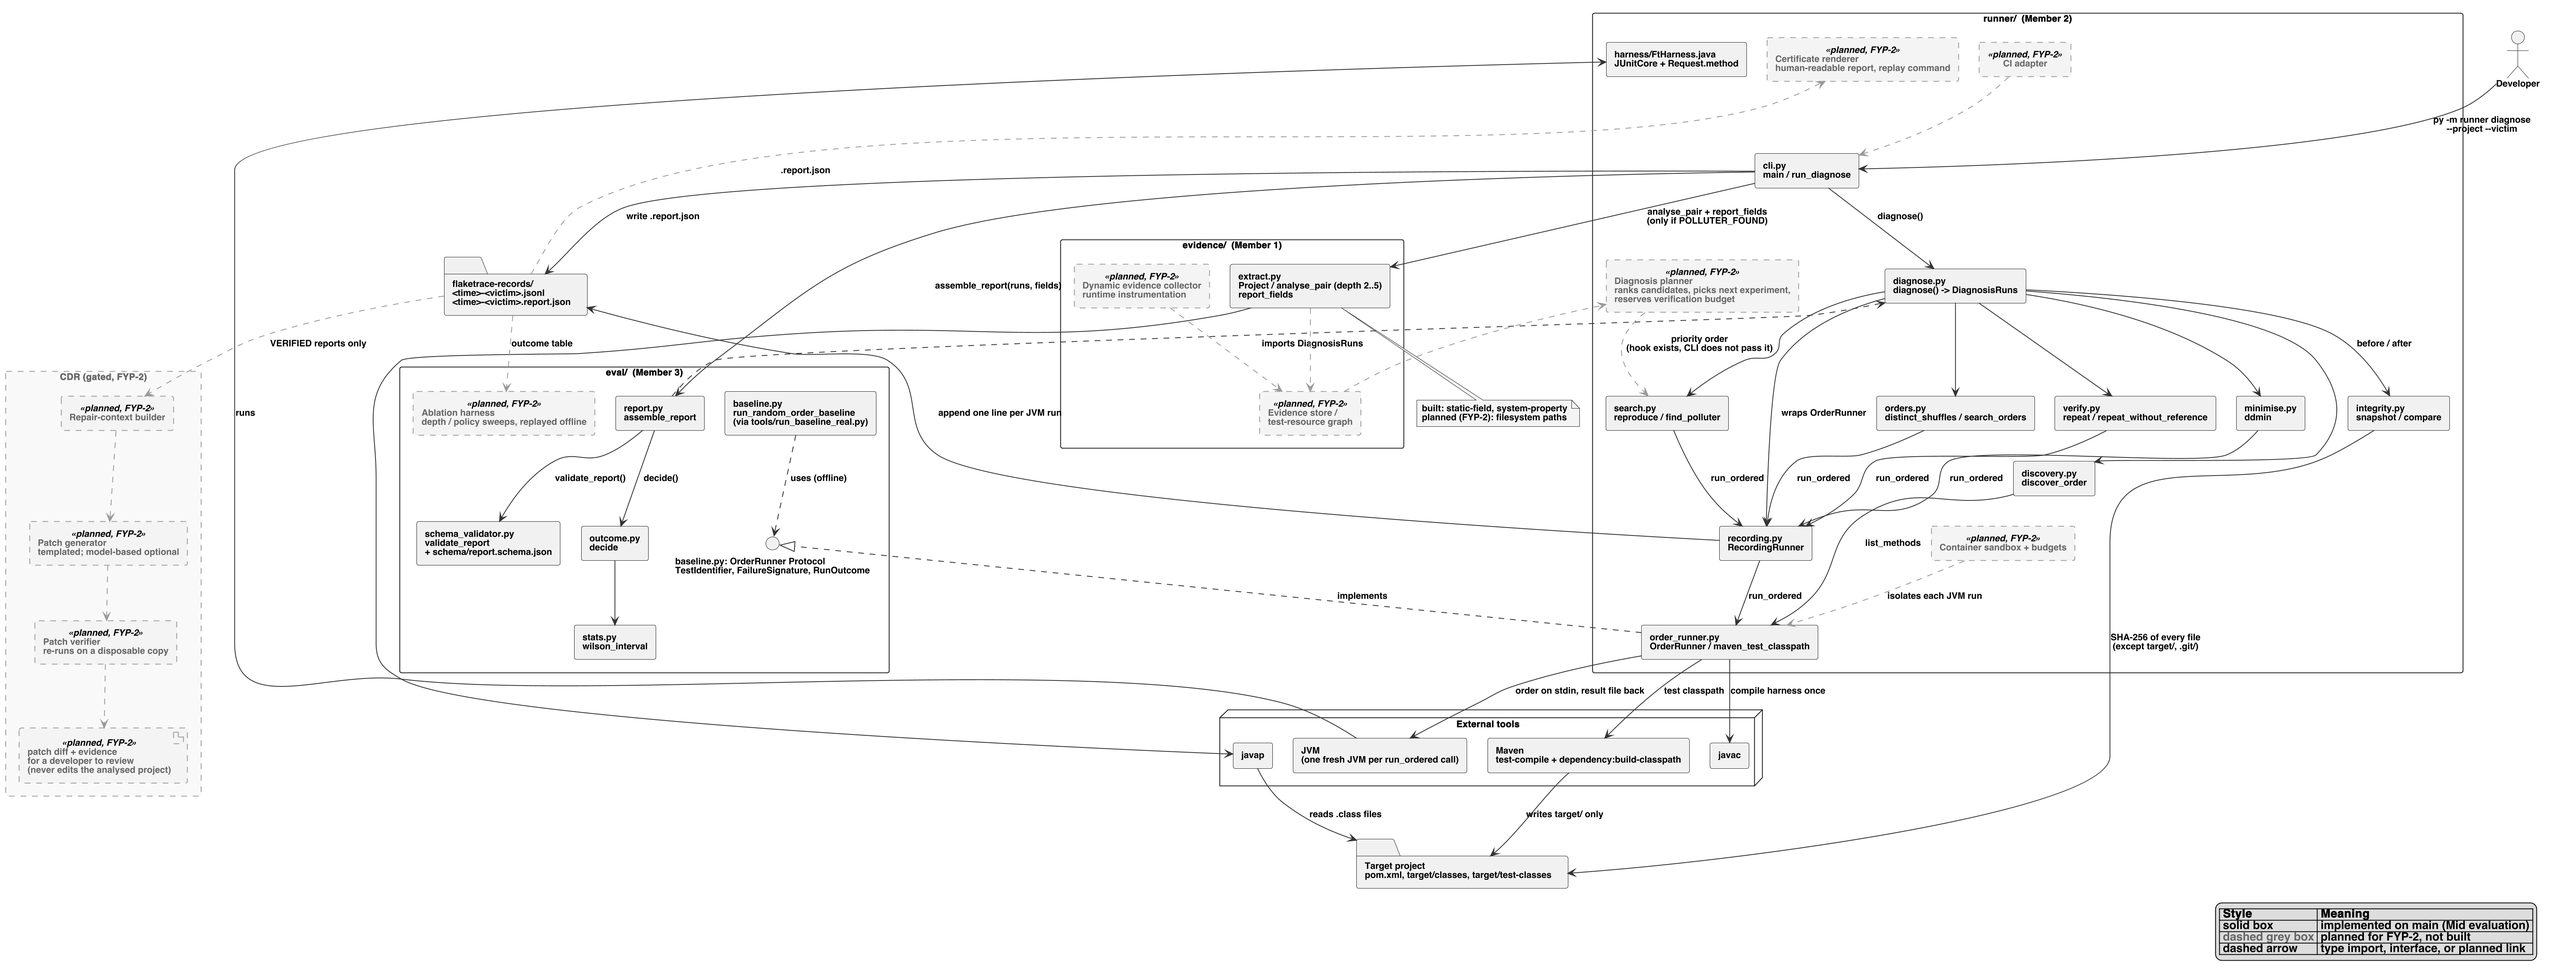
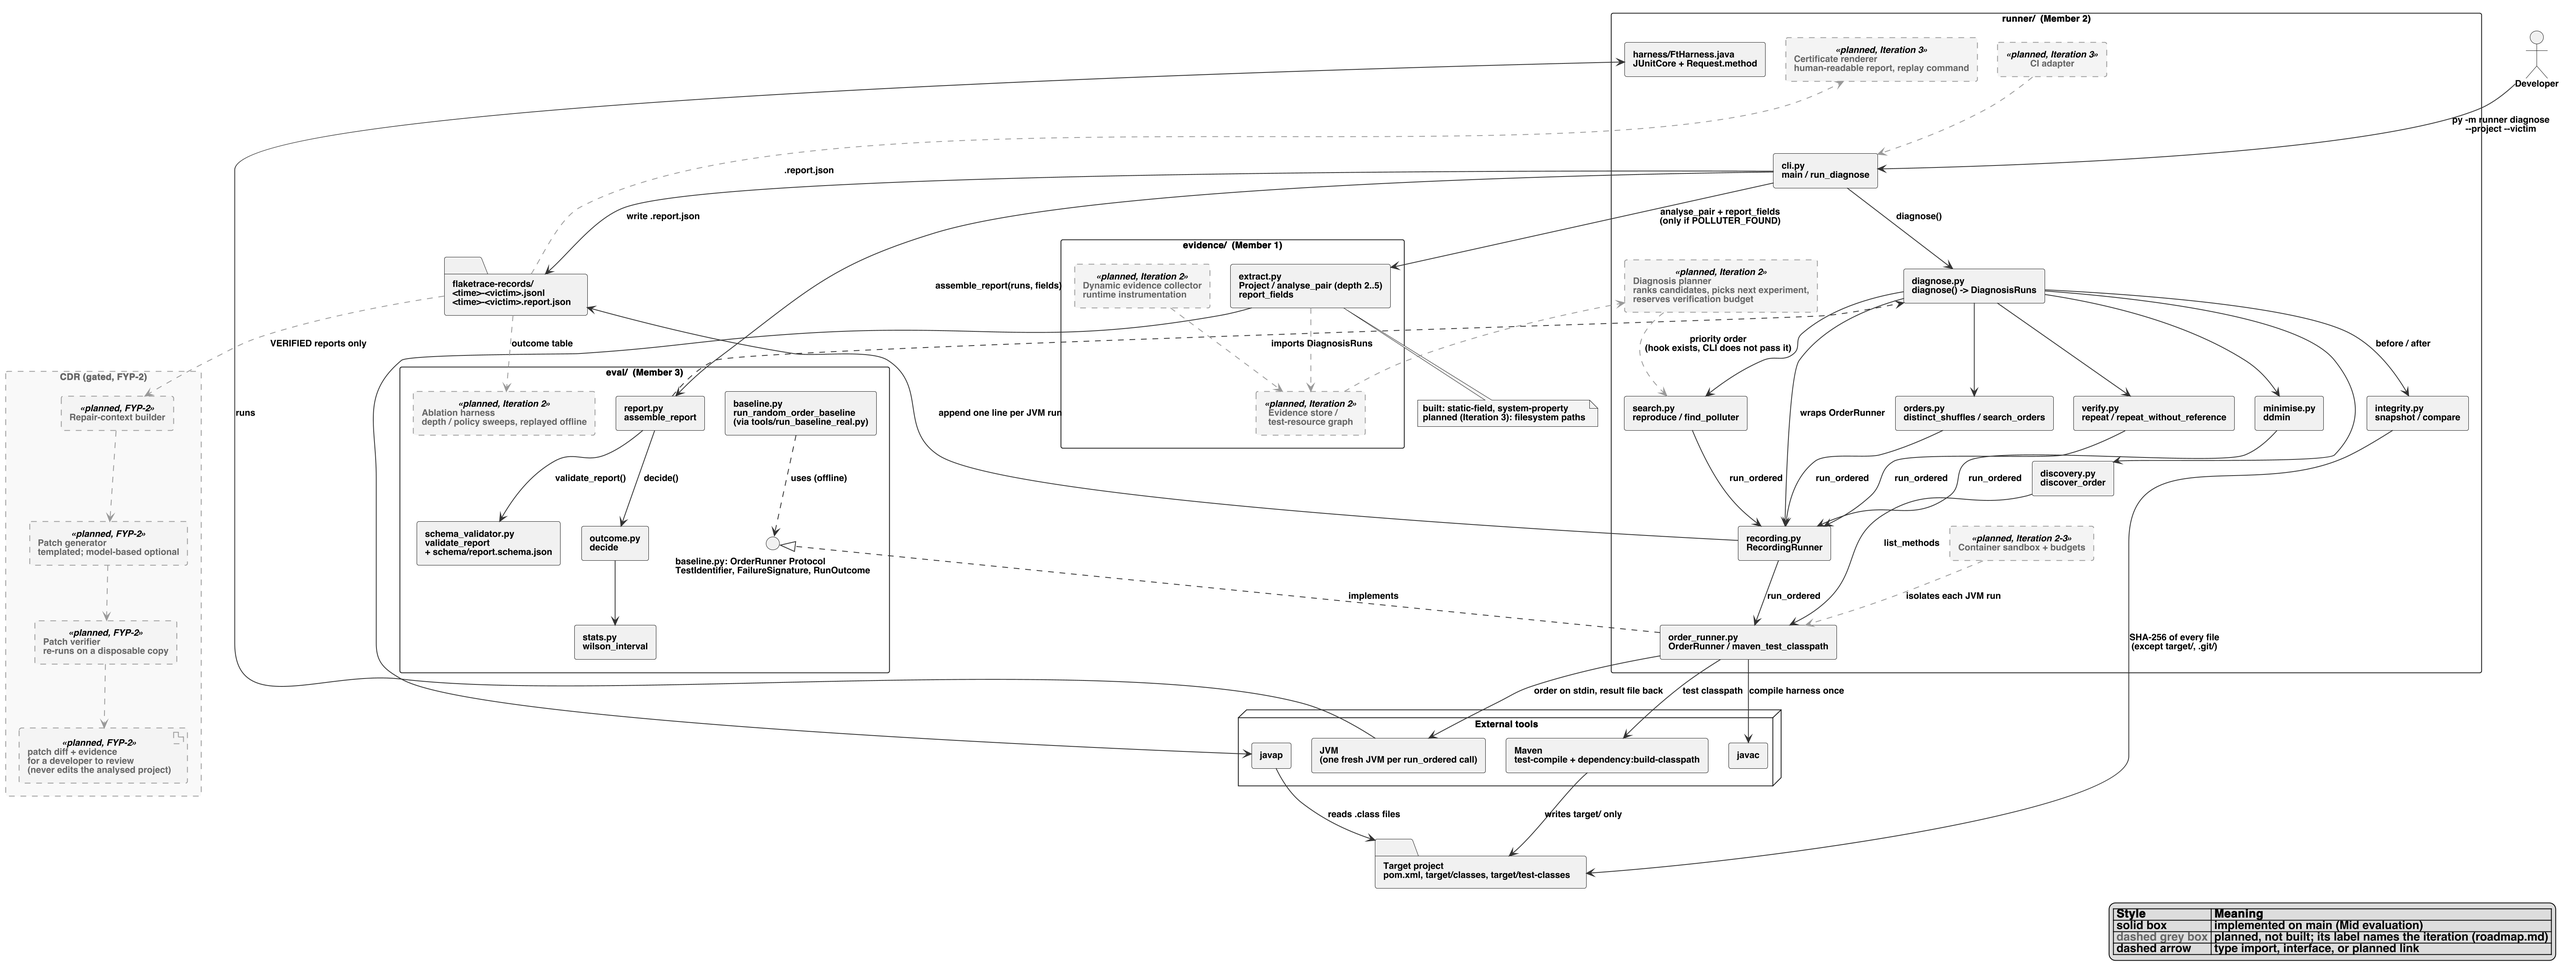
[M2] report: label planned architecture parts with their roadmap iteration
Chapter 5 said every planned component was FYP-2, but roadmap.md's iteration table puts the planner, the evidence graph, dynamic collection and the ablation harness in Iteration 2, before the FYP-1 Final, as Chapters 1 and 3 already say. Each dashed box now names its iteration; only the gated CDR module stays FYP-2. Raised by M3's cross-review.

Verified: PlantUML re-rendered and labels checked in the PNG; latexmk -pdf (MiKTeX) 177 pages, 0 errors; Figure 5.1 page inspected.

diff --git a/mid-eval-report/chapters/chapter5_design.tex b/mid-eval-report/chapters/chapter5_design.tex
@@ -7,7 +7,7 @@
 % ===========================================================================
 \chapter{System Design}
 \section{System Architecture}\label{ch5:sec:arch}
-FlakeTrace is three Python packages, one per member: \texttt{runner/} (Member 2), \texttt{evidence/} (Member 1) and \texttt{eval/} (Member 3). They meet only through the contracts in \texttt{docs/contracts/}: \texttt{interfaces.md} (who calls whom), \texttt{report-schema.md} (the report every part feeds) and \texttt{resource-evidence.md} (the evidence format). Figure~\ref{ch5:fig:arch} shows every module and call as it is on \texttt{main}; solid boxes are implemented, dashed grey boxes are planned for FYP-2.
+FlakeTrace is three Python packages, one per member: \texttt{runner/} (Member 2), \texttt{evidence/} (Member 1) and \texttt{eval/} (Member 3). They meet only through the contracts in \texttt{docs/contracts/}: \texttt{interfaces.md} (who calls whom), \texttt{report-schema.md} (the report every part feeds) and \texttt{resource-evidence.md} (the evidence format). Figure~\ref{ch5:fig:arch} shows every module and call as it is on \texttt{main}; solid boxes are implemented, dashed grey boxes are planned, each labelled with the iteration the roadmap gives it (\path{docs/00-Meta/roadmap.md}). Iteration 2 ends at the FYP-1 Final evaluation; only the gated CDR module is FYP-2 alone.
 
 One command, \texttt{py -m runner diagnose -{}-project DIR -{}-victim Class\#method}, starts a diagnosis. \texttt{runner/cli.py} is the only place that calls all three packages, in five layers:
 \begin{enumerate}
@@ -22,7 +22,7 @@ The analysed project is only read. Maven compiles it into its own \texttt{target
 
 \begin{figure}[p]\centering
   \includegraphics[width=0.92\textheight,angle=90]{figures/m2/architecture}
-  \caption{FlakeTrace architecture: implemented at Iteration 1 (solid) and planned for FYP-2 (dashed grey)}\label{ch5:fig:arch}
+  \caption{FlakeTrace architecture: implemented at Iteration 1 (solid) and planned for later iterations (dashed grey)}\label{ch5:fig:arch}
 \end{figure}
 \section{Architectural Components}\label{ch5:sec:components}
 Table~\ref{ch5:tab:components} maps each component of the proposal's architecture (\path{docs/03-Design/architecture.md}) to the code that implements it at Iteration 1. ``Partial'' means part of the component's responsibility exists and the rest is named.
@@ -42,13 +42,13 @@ Project adapter & \texttt{runner/discovery.py}, \texttt{order\_runner.py} (\text
 Sandbox runner & \texttt{runner/order\_runner.py}, \texttt{harness/FtHarness.java} & M2 & Partial: one fresh JVM per order, 120\,s timeout; no container, no budget beyond the timeout\\
 Outcome normaliser & \texttt{eval/baseline.py} (\texttt{FailureSignature}), \texttt{runner/order\_runner.py} & M3, M2 & Built: exception type plus stack trace cut at the first JUnit/reflection frame; message masked\\
 Evidence collector & \texttt{evidence/extract.py} & M1 & Partial: static-only (\texttt{javap}), static fields and system properties, depth 2 deepening to 5; no filesystem paths, no runtime collection\\
-Evidence store / graph & --- & M1 & Planned (FYP-2); pair mode per found polluter instead\\
-Diagnosis planner & \texttt{runner/search.py} (\texttt{priority} argument only) & M2 & Planned (FYP-2); the CLI passes no priority\\
+Evidence store / graph & --- & M1 & Planned (Iteration 2); pair mode per found polluter instead\\
+Diagnosis planner & \texttt{runner/search.py} (\texttt{priority} argument only) & M2 & Planned (Iteration 2); the CLI passes no priority\\
 Minimiser / verifier & \texttt{runner/search.py}, \texttt{orders.py}, \texttt{minimise.py}, \texttt{verify.py}; \texttt{eval/stats.py} & M2, M3 & Built: single-polluter search, \texttt{ddmin} to a 1-minimal set, $n$ repeated runs, Wilson interval\\
 Certificate generator & \texttt{eval/report.py}, \texttt{outcome.py}, \texttt{schema\_validator.py}; \texttt{runner/cli.py} (summary) & M3, M2 & Partial: schema-validated JSON and console summary; no human-readable renderer or replay command; no report for \texttt{NO\_SINGLE\_POLLUTER}\\
 CLI / CI adapter & \texttt{runner/cli.py}; \path{.github/workflows/ci.yml} & M2 & Partial: \texttt{py -m runner diagnose} built; CI tests FlakeTrace itself, no adapter for a user's pipeline\\
 Source integrity, execution record & \texttt{runner/integrity.py}, \texttt{recording.py} & M2 & Built: report fields \texttt{source\_integrity} and \texttt{execution\_\allowbreak record\_\allowbreak reference}\\
-CDR (gated) & --- & M3 & Planned (FYP-2), only for \texttt{VERIFIED} reports\\
+CDR (gated) & --- & M3 & Planned (gated, FYP-2), only for \texttt{VERIFIED} reports\\
 \bottomrule
 \end{longtable}}
 
